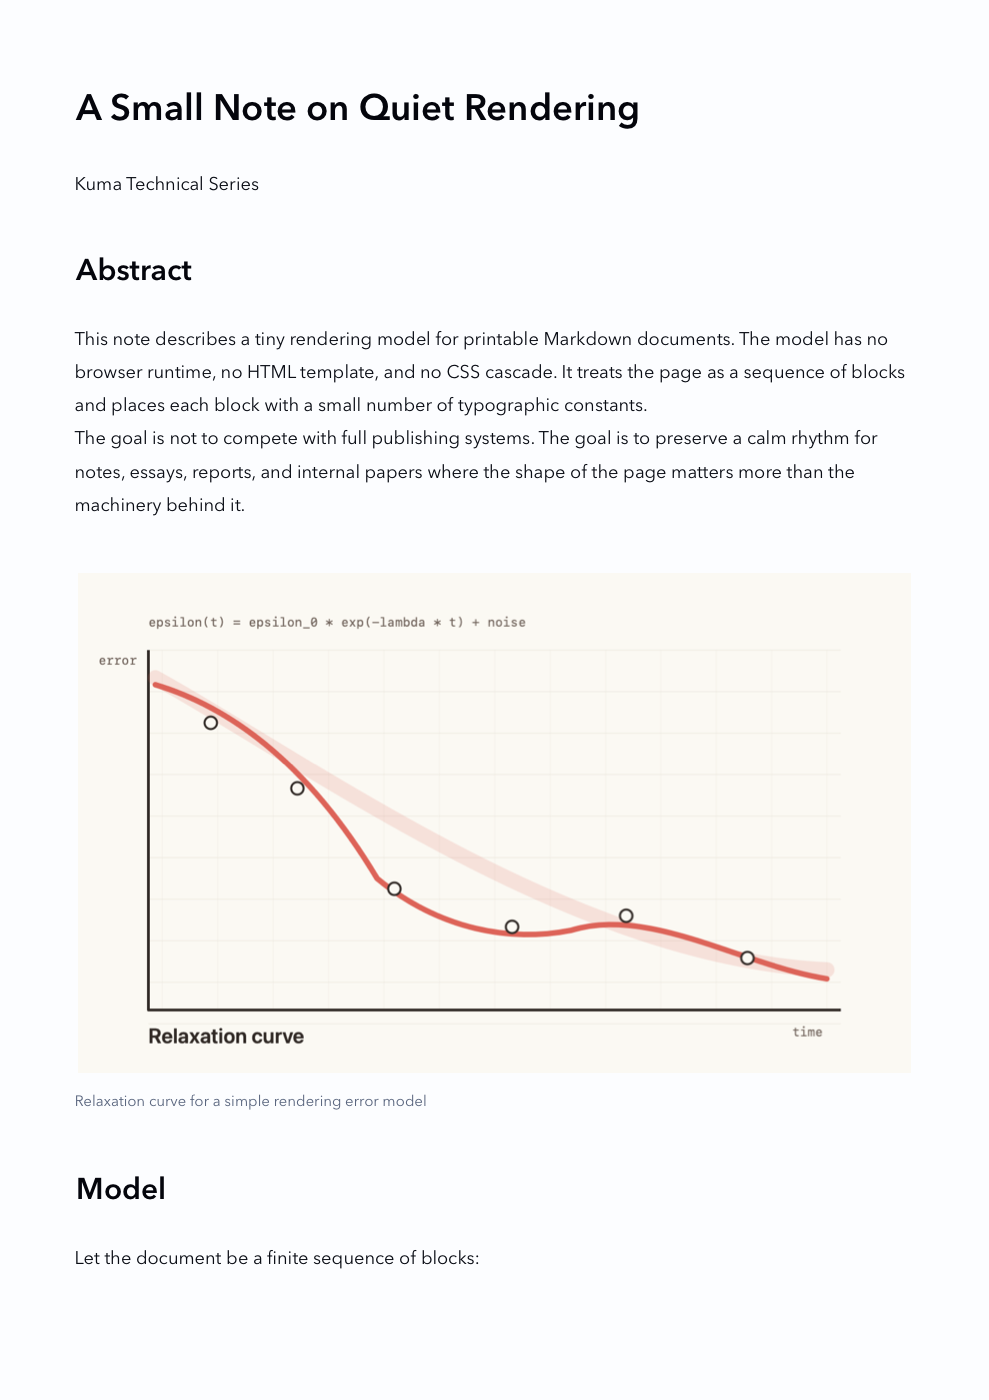
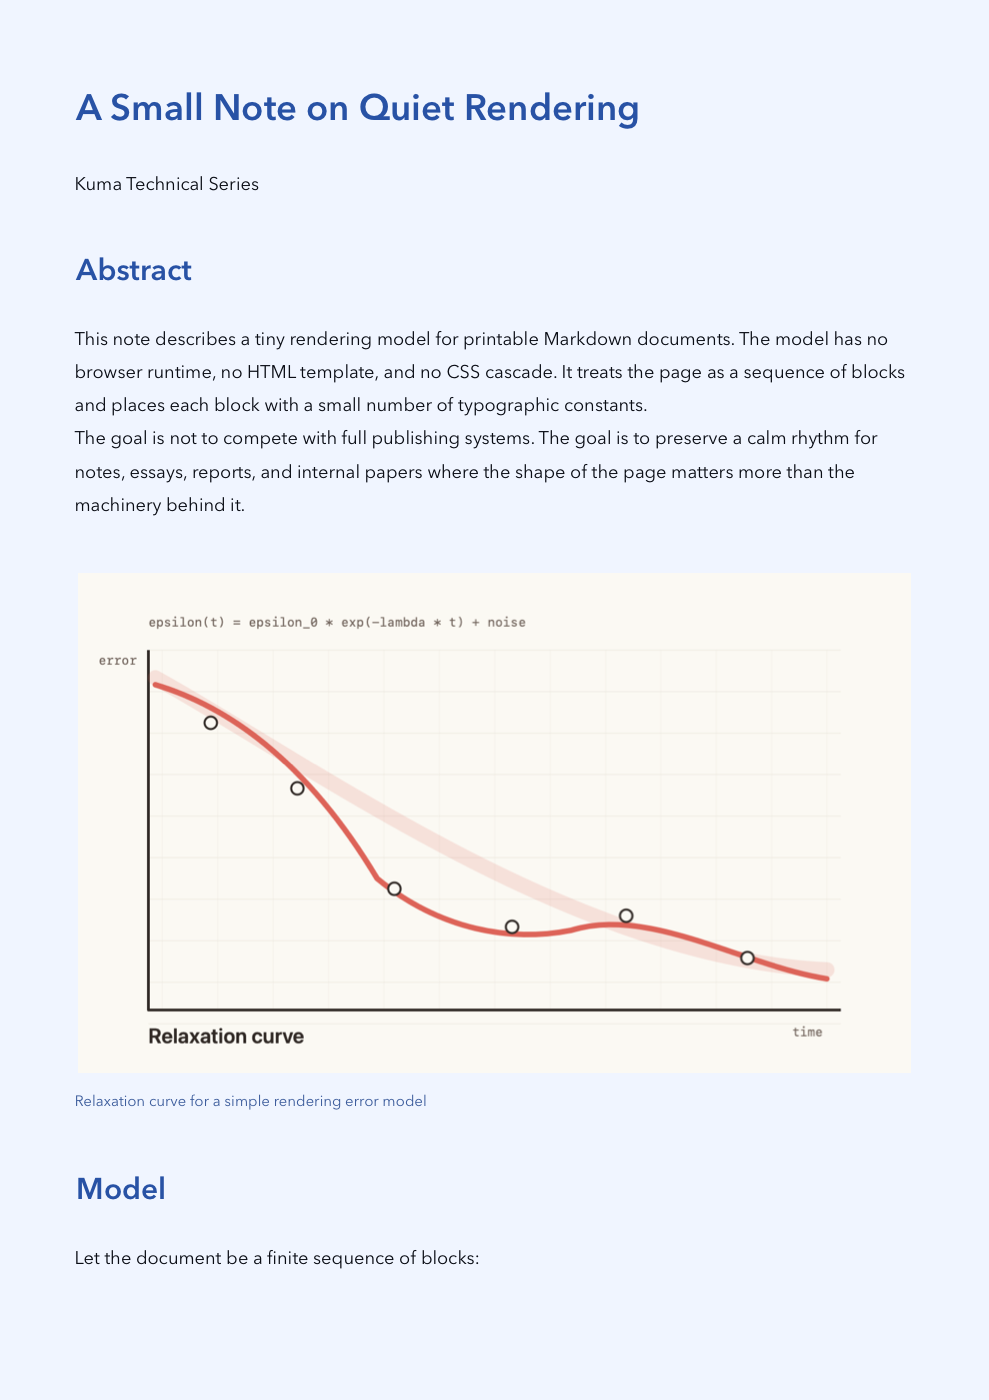
Make PDF themes visibly distinct

Changed region(s): [[0.0607, 0.0614, 0.6673, 0.0921], [0.0607, 0.8293, 0.182, 0.86], [0.0607, 0.1843, 0.182, 0.215]]

diff --git a/Sources/Kuma/main.swift b/Sources/Kuma/main.swift
@@ -17,7 +17,7 @@ let pageStartY: CGFloat = 64
 let firstPageStartY: CGFloat = 72
 let maxBaselineY: CGFloat = 790
 let appName = "Kuma"
-let appVersion = "0.3.0"
+let appVersion = "0.3.1"
 let defaultBodyFontName = "AvenirNext-Regular"
 let defaultHeadingFontName = "AvenirNext-DemiBold"
 let defaultCodeFontName = "Menlo-Regular"
@@ -52,50 +52,50 @@ let themes = [
     Theme(
         name: "sumi",
         description: "Monochrome ink with quiet graphite rules",
-        pageColor: CGColor(red: 0.992, green: 0.99, blue: 0.982, alpha: 1),
+        pageColor: CGColor(red: 0.955, green: 0.95, blue: 0.93, alpha: 1),
         textColor: CGColor(gray: 0.08, alpha: 1),
-        headingColor: CGColor(gray: 0, alpha: 1),
-        accentColor: CGColor(gray: 0.18, alpha: 1),
-        captionColor: CGColor(gray: 0.42, alpha: 1),
-        codeTextColor: CGColor(gray: 0.12, alpha: 1),
-        codeBackgroundColor: CGColor(gray: 0.965, alpha: 1),
-        codeBorderColor: CGColor(gray: 0.82, alpha: 1)
+        headingColor: CGColor(gray: 0.02, alpha: 1),
+        accentColor: CGColor(gray: 0.25, alpha: 1),
+        captionColor: CGColor(gray: 0.36, alpha: 1),
+        codeTextColor: CGColor(gray: 0.10, alpha: 1),
+        codeBackgroundColor: CGColor(red: 0.90, green: 0.895, blue: 0.875, alpha: 1),
+        codeBorderColor: CGColor(gray: 0.70, alpha: 1)
     ),
     Theme(
         name: "aka",
         description: "Editorial black text with a deeper cinnabar accent",
-        pageColor: CGColor(red: 1.0, green: 0.985, blue: 0.97, alpha: 1),
+        pageColor: CGColor(red: 1.0, green: 0.955, blue: 0.935, alpha: 1),
         textColor: CGColor(red: 0.055, green: 0.045, blue: 0.04, alpha: 1),
-        headingColor: CGColor(red: 0.02, green: 0.015, blue: 0.012, alpha: 1),
-        accentColor: CGColor(red: 0.72, green: 0.16, blue: 0.14, alpha: 1),
-        captionColor: CGColor(red: 0.36, green: 0.30, blue: 0.27, alpha: 1),
-        codeTextColor: CGColor(red: 0.15, green: 0.08, blue: 0.06, alpha: 1),
-        codeBackgroundColor: CGColor(red: 0.985, green: 0.955, blue: 0.93, alpha: 1),
-        codeBorderColor: CGColor(red: 0.88, green: 0.78, blue: 0.70, alpha: 1)
+        headingColor: CGColor(red: 0.52, green: 0.11, blue: 0.10, alpha: 1),
+        accentColor: CGColor(red: 0.74, green: 0.12, blue: 0.10, alpha: 1),
+        captionColor: CGColor(red: 0.58, green: 0.24, blue: 0.20, alpha: 1),
+        codeTextColor: CGColor(red: 0.24, green: 0.08, blue: 0.06, alpha: 1),
+        codeBackgroundColor: CGColor(red: 1.0, green: 0.925, blue: 0.90, alpha: 1),
+        codeBorderColor: CGColor(red: 0.86, green: 0.60, blue: 0.52, alpha: 1)
     ),
     Theme(
         name: "mori",
         description: "Muted forest accent for essays and field notes",
-        pageColor: CGColor(red: 0.985, green: 0.992, blue: 0.982, alpha: 1),
+        pageColor: CGColor(red: 0.94, green: 0.98, blue: 0.92, alpha: 1),
         textColor: CGColor(red: 0.055, green: 0.07, blue: 0.06, alpha: 1),
-        headingColor: CGColor(red: 0.025, green: 0.04, blue: 0.035, alpha: 1),
-        accentColor: CGColor(red: 0.23, green: 0.43, blue: 0.31, alpha: 1),
-        captionColor: CGColor(red: 0.30, green: 0.38, blue: 0.33, alpha: 1),
-        codeTextColor: CGColor(red: 0.08, green: 0.16, blue: 0.12, alpha: 1),
-        codeBackgroundColor: CGColor(red: 0.945, green: 0.965, blue: 0.94, alpha: 1),
-        codeBorderColor: CGColor(red: 0.78, green: 0.84, blue: 0.76, alpha: 1)
+        headingColor: CGColor(red: 0.12, green: 0.34, blue: 0.22, alpha: 1),
+        accentColor: CGColor(red: 0.18, green: 0.48, blue: 0.29, alpha: 1),
+        captionColor: CGColor(red: 0.20, green: 0.42, blue: 0.27, alpha: 1),
+        codeTextColor: CGColor(red: 0.05, green: 0.20, blue: 0.11, alpha: 1),
+        codeBackgroundColor: CGColor(red: 0.90, green: 0.96, blue: 0.89, alpha: 1),
+        codeBorderColor: CGColor(red: 0.62, green: 0.78, blue: 0.58, alpha: 1)
     ),
     Theme(
         name: "aizome",
         description: "Indigo accent with cool technical code blocks",
-        pageColor: CGColor(red: 0.985, green: 0.99, blue: 1.0, alpha: 1),
+        pageColor: CGColor(red: 0.925, green: 0.95, blue: 1.0, alpha: 1),
         textColor: CGColor(red: 0.04, green: 0.045, blue: 0.065, alpha: 1),
-        headingColor: CGColor(red: 0.02, green: 0.025, blue: 0.045, alpha: 1),
-        accentColor: CGColor(red: 0.19, green: 0.31, blue: 0.62, alpha: 1),
-        captionColor: CGColor(red: 0.28, green: 0.32, blue: 0.42, alpha: 1),
-        codeTextColor: CGColor(red: 0.06, green: 0.10, blue: 0.20, alpha: 1),
-        codeBackgroundColor: CGColor(red: 0.94, green: 0.955, blue: 0.98, alpha: 1),
-        codeBorderColor: CGColor(red: 0.78, green: 0.82, blue: 0.90, alpha: 1)
+        headingColor: CGColor(red: 0.12, green: 0.24, blue: 0.58, alpha: 1),
+        accentColor: CGColor(red: 0.12, green: 0.28, blue: 0.72, alpha: 1),
+        captionColor: CGColor(red: 0.18, green: 0.28, blue: 0.54, alpha: 1),
+        codeTextColor: CGColor(red: 0.04, green: 0.10, blue: 0.28, alpha: 1),
+        codeBackgroundColor: CGColor(red: 0.88, green: 0.92, blue: 1.0, alpha: 1),
+        codeBorderColor: CGColor(red: 0.58, green: 0.68, blue: 0.92, alpha: 1)
     )
 ]
 
